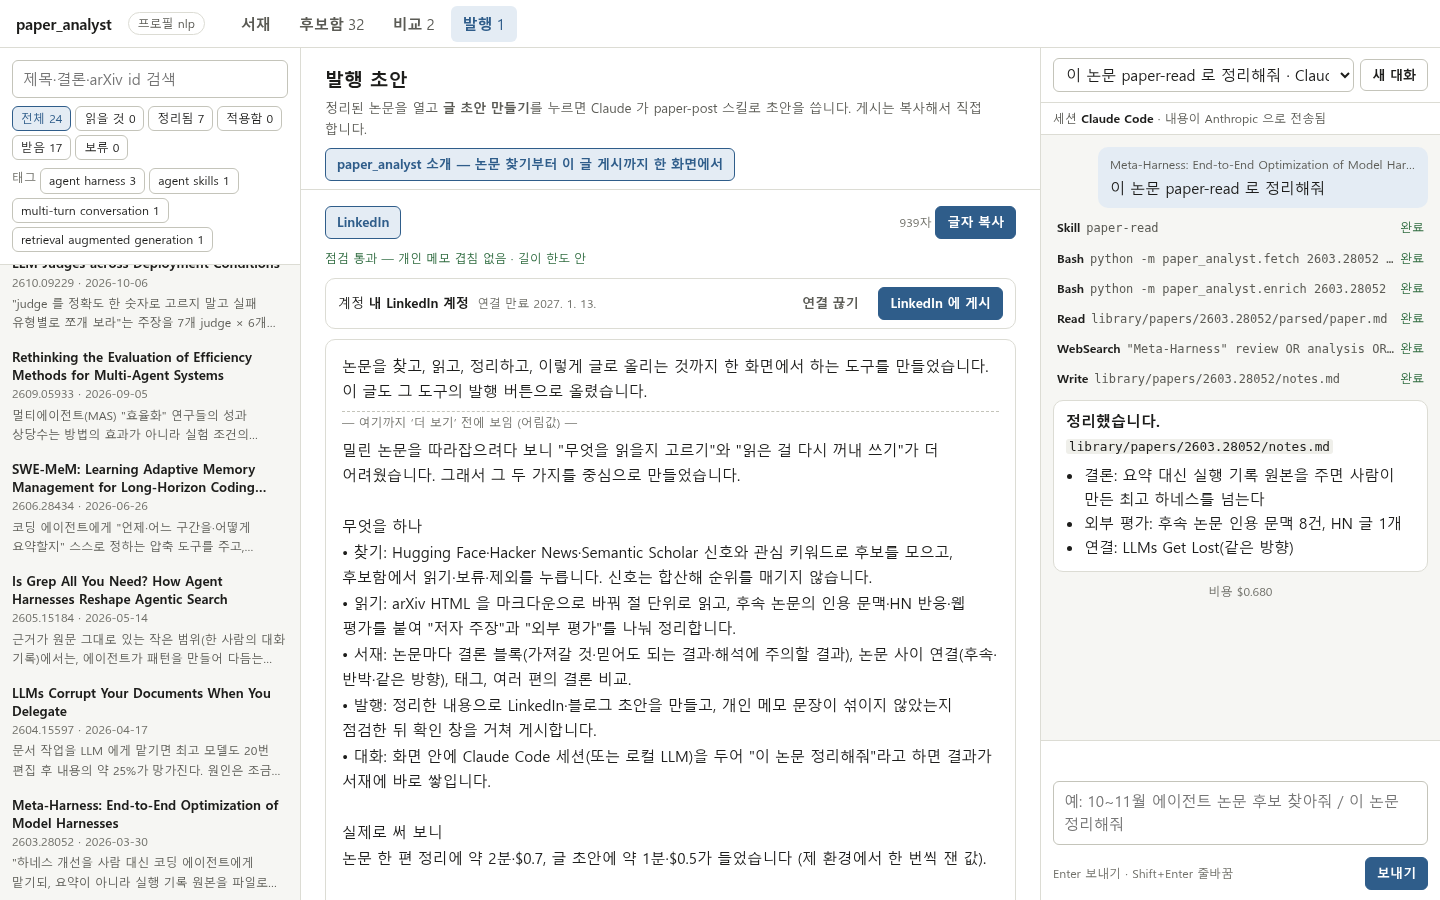
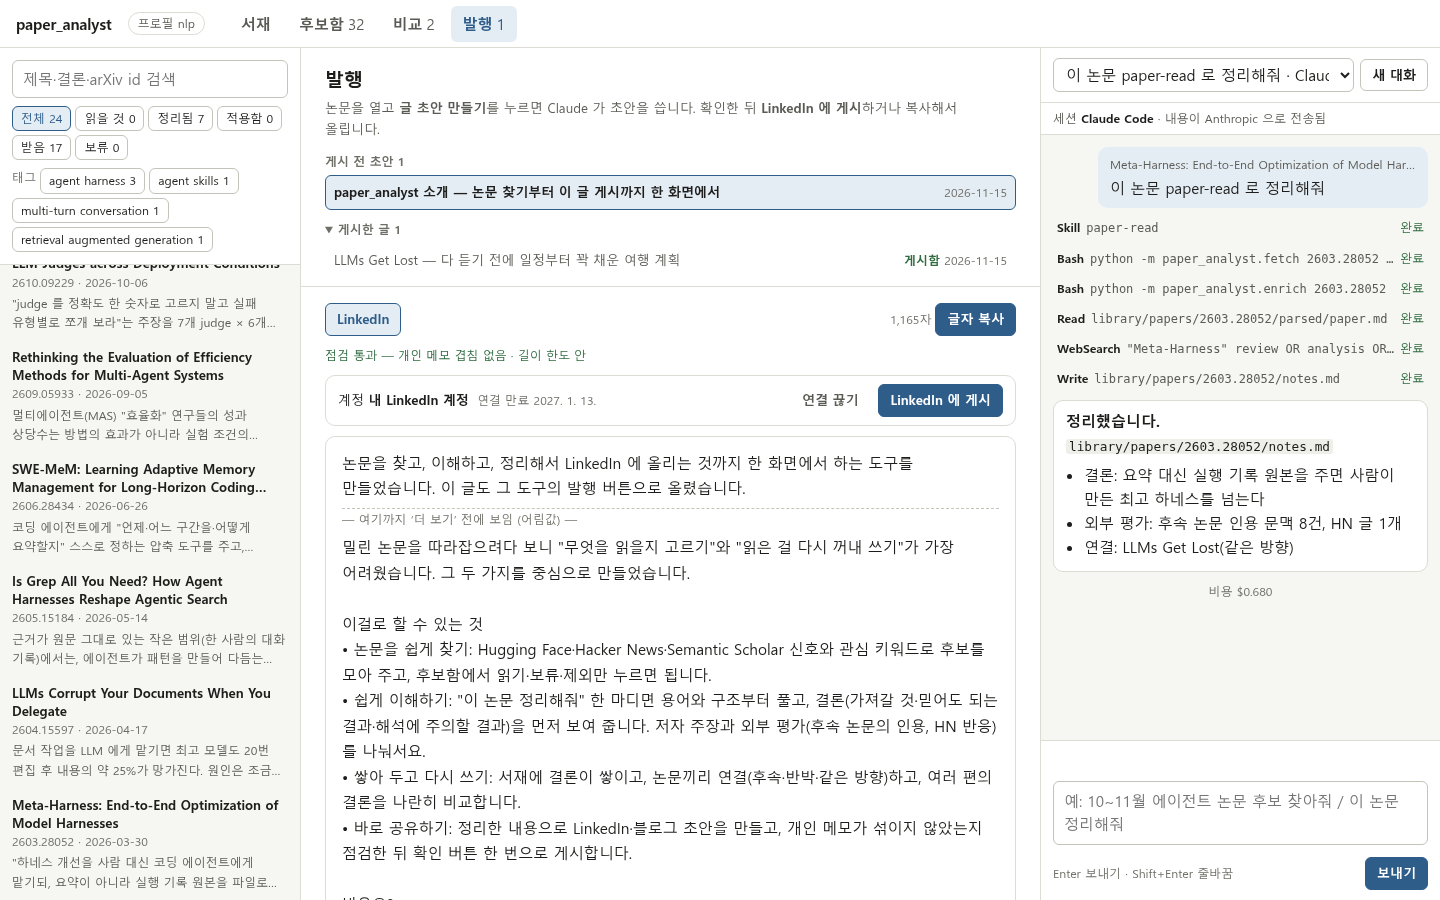
발행 탭: 게시 전 초안과 게시한 글을 나눠 보이기
- 목록 API 에 게시 시각(published) 추가
- 게시 전 초안이 위(탭 숫자도 이것만), 게시한 글은 접어 두고 게시 시각 순
- 고른 글이 게시한 글이면 늘 펼침, 직접 접은 상태는 기억
- 긴 제목은 말줄임 (390 폭 가로 스크롤 수정)
- 서재를 불러오기 전에 다른 탭을 누르면 나던 JS 오류 수정
- 브라우저 점검 +9 항목, README 캡처는 두 그룹이 보이게 (계정 이름 지움)

Changed region(s): [[0.2188, 0.0622, 0.7188, 0.9644], [0.25, 0.9956, 0.2812, 1.0]]

diff --git a/paper_analyst/static/index.html b/paper_analyst/static/index.html
@@ -131,7 +131,20 @@ button.tag.sug:hover { border-color: var(--accent); color: var(--accent); }
 
 /* 발행 */
 .pub-head { padding: 16px 24px 8px; border-bottom: 1px solid var(--line); }
-.pub-list { display: flex; flex-wrap: wrap; gap: 6px; margin-top: 8px; }
+.pub-groups { display: grid; grid-template-columns: minmax(0, 1fr); gap: 8px; margin-top: 10px; }
+.pub-group { min-width: 0; }
+.pub-group > .gh { font-size: var(--fs-cap); color: var(--text-3); font-weight: 700; margin: 0 0 2px; padding: 2px 0; }
+details.pub-group > summary.gh { cursor: pointer; list-style-position: inside; }
+.pub-rows { display: flex; flex-direction: column; gap: 2px; }
+.pub-row { display: flex; gap: 10px; align-items: baseline; width: 100%; text-align: left; border: 1px solid transparent; background: none;
+  border-radius: var(--radius); padding: 6px 8px; cursor: pointer; color: var(--text); font-size: var(--fs-label); min-height: 32px; min-width: 0; }
+.pub-row:hover { background: var(--panel-2); }
+.pub-row[aria-pressed="true"] { background: var(--accent-soft); border-color: var(--accent); }
+.pub-row .t { flex: 1; min-width: 0; overflow: hidden; text-overflow: ellipsis; white-space: nowrap; font-weight: 600; }
+.pub-row .m { font-size: var(--fs-cap); color: var(--text-3); white-space: nowrap; font-variant-numeric: tabular-nums; }
+.pub-row.is-done .t { font-weight: 500; color: var(--text-2); }
+.pub-row.is-done .m b { color: var(--ok); font-weight: 600; }
+.pub-none { font-size: var(--fs-label); color: var(--text-3); padding: 4px 8px; margin: 0; }
 .pub-body { padding: 16px 24px 48px; max-width: 860px; }
 .ptabs { display: flex; gap: 4px; align-items: center; margin-bottom: 10px; flex-wrap: wrap; }
 .ptabs .spacer { flex: 1; }
@@ -340,6 +353,7 @@ async function loadLib(markFresh = false) {
   }
 }
 function renderFilters() {
+  if (!S.lib) return;   // 서재를 불러오기 전에 다른 탭을 누른 경우 — 불러오면 다시 그린다
   const c = S.lib.counts, names = S.lib.status_names;
   const opts = [['all', '전체', S.lib.papers.length], ...ORDER.map(k => [k, names[k], c[k]])];
   $('#filters').innerHTML = opts.map(([k, n, v]) =>
@@ -357,6 +371,7 @@ function matches(p) {
   return (p.title + ' ' + p.id + ' ' + (p.conclusion || '')).toLowerCase().includes(S.q.toLowerCase());
 }
 function renderLib() {
+  if (!S.lib) return;   // 서재를 불러오기 전에 다른 탭을 누른 경우 — 불러오면 다시 그린다
   const names = S.lib.status_names, out = [];
   for (const st of ORDER) {
     if (S.filter !== 'all' && S.filter !== st) continue;
@@ -499,22 +514,42 @@ async function renderCompare() {
       </tbody></table></div>`;
 }
 /* ── 발행 ─────────────────────────────────── */
+// 게시 여부로 나눈다: 할 일(게시 전)이 위, 기록(게시함)은 접어 둔다. 탭 숫자는 게시 전 초안만.
+const isDone = x => Object.keys(x.published || {}).length > 0;
+const pubAt = x => Object.values(x.published || {}).sort().pop() || '';
+function splitPosts() {
+  const todo = S.posts.filter(x => !isDone(x)), done = S.posts.filter(isDone).sort((a, b) => pubAt(b).localeCompare(pubAt(a)));
+  return { todo, done };
+}
+function setPubCount() { $('#pub-n').textContent = S.posts.filter(x => !isDone(x)).length || ''; }
 async function loadPubCount() {
-  try { S.posts = await api('/api/posts'); $('#pub-n').textContent = S.posts.length || ''; } catch { /* 숫자만 못 보여 줌 */ }
+  try { S.posts = await api('/api/posts'); setPubCount(); } catch { /* 숫자만 못 보여 줌 */ }
 }
 async function loadPub() {
   try { S.posts = await api('/api/posts'); } catch (e) { $('#main').innerHTML = `<div class="empty"><h2>초안 목록을 불러오지 못했습니다</h2><p>${esc(e.message)}</p></div>`; return; }
-  $('#pub-n').textContent = S.posts.length || '';
+  setPubCount();
   if (S.post && !S.posts.some(x => x.slug === S.post)) S.post = null;
-  S.post = S.post || (S.posts[0] && S.posts[0].slug);
+  const { todo, done } = splitPosts();
+  S.post = S.post || ((todo[0] || done[0]) || {}).slug;
   S.postData = S.post ? await api(`/api/posts/${encodeURIComponent(S.post)}`).catch(() => null) : null;
   S.li = await api('/api/linkedin').catch(() => null);
   if (S.view === 'pub') renderPub();
 }
 function renderPub() {
-  const head = `<div class="pub-head"><h1 class="title" style="font-size:var(--fs-h2);margin:0">발행 초안</h1>
-    <p class="meta" style="margin:4px 0 0">정리된 논문을 열고 <b>글 초안 만들기</b>를 누르면 Claude 가 paper-post 스킬로 초안을 씁니다. 게시는 복사해서 직접 합니다.</p>
-    ${S.posts.length ? `<div class="pub-list">${S.posts.map(x => `<button class="btn" data-post="${esc(x.slug)}" aria-pressed="${x.slug === S.post}">${esc(x.title)}</button>`).join('')}</div>` : ''}</div>`;
+  const { todo, done } = splitPosts();
+  const row = x => `<button class="pub-row${isDone(x) ? ' is-done' : ''}" data-post="${esc(x.slug)}" aria-pressed="${x.slug === S.post}" title="${esc(x.title)}">
+      <span class="t">${esc(x.title)}</span>
+      <span class="m">${isDone(x) ? `<b>게시함</b> ${esc(pubAt(x).slice(0, 10))}` : esc(x.created || '')}</span></button>`;
+  const doneOpen = done.some(x => x.slug === S.post) || (S.pubDoneOpen ?? !todo.length);   // 고른 글이 안에 있으면 늘 펼침
+  const groups = S.posts.length ? `<div class="pub-groups">
+    <section class="pub-group"><h2 class="gh">게시 전 초안 ${todo.length}</h2>
+      ${todo.length ? `<div class="pub-rows">${todo.map(row).join('')}</div>` : '<p class="pub-none">게시할 초안이 없습니다. 모두 올렸습니다.</p>'}</section>
+    ${done.length ? `<details class="pub-group" id="pub-done"${doneOpen ? ' open' : ''}><summary class="gh">게시한 글 ${done.length}</summary>
+      <div class="pub-rows">${done.map(row).join('')}</div></details>` : ''}
+  </div>` : '';
+  const head = `<div class="pub-head"><h1 class="title" style="font-size:var(--fs-h2);margin:0">발행</h1>
+    <p class="meta" style="margin:4px 0 0">논문을 열고 <b>글 초안 만들기</b>를 누르면 Claude 가 초안을 씁니다. 확인한 뒤 <b>LinkedIn 에 게시</b>하거나 복사해서 올립니다.</p>
+    ${groups}</div>`;
   const d = S.postData;
   if (!d) { $('#main').innerHTML = head + `<div class="empty"><h2>아직 초안이 없습니다</h2><p>예: 서재에서 논문을 열고 <b>글 초안 만들기</b>, 또는 대화창에 <span class="ex">이 두 논문 엮어서 링크드인 글 써줘</span></p></div>`; return; }
   const kinds = [['linkedin', 'LinkedIn', d.linkedin], ['blog', '블로그 (마크다운)', d.blog], ['tistory', '티스토리 (HTML)', d.blog]].filter(k => k[2]);
@@ -770,6 +805,8 @@ function setView(v) {
 
 /* ── 이벤트 연결 ──────────────────────────── */
 document.addEventListener('click', async ev => {
+  const sum = ev.target.closest('#pub-done > summary');   // 사용자가 직접 접고 편 상태만 기억
+  if (sum) S.pubDoneOpen = !sum.parentElement.open;
   const t = ev.target.closest('button');
   if (!t || (!t.closest('.menu') && t.id !== 'new-chat')) $('.menu')?.remove();
   if (!t) return;

diff --git a/tools/browser_check.py b/tools/browser_check.py
@@ -42,6 +42,18 @@ _pd.mkdir(parents=True)
                                  "- 순서 바꿈 강건성은 양쪽 순서 모두 정답일 때만\n- 누락형 오류는 따로 잰다\n\n"
                                  "이 줄은 비공개 메모에서 옮겨 온 문장이라 경고가 떠야 합니다\n\n출처: https://arxiv.org/abs/2610.09229\n#LLM #평가")
 (_pd / "blog.md").write_text("# 판정기 고르기\n\n## 논문이 보인 것\n\n| 조건 | 결과 |\n|---|---|\n| 순서 | 강건성 0.87 |\n")
+# 게시 전 초안 하나 더 + 이미 게시한 글 하나 (발행 탭이 둘을 나눠 보이는지)
+for slug, meta, body in [
+    ("2026-11-14_older", {"title": "아주 긴 제목의 게시 전 초안 — 휴대폰 폭에서 말줄임으로 잘려야 하고 가로 스크롤이 생기면 안 됩니다", "created": "2026-11-14"},
+     "게시 전 두 번째 초안입니다.\n"),
+    ("2026-11-10_done", {"title": "이미 올린 글", "created": "2026-11-10",
+                         "published": {"linkedin": {"urn": "urn:li:share:9", "url": "https://www.linkedin.com/feed/update/urn:li:share:9/",
+                                                    "at": "2026-11-11 09:00:00 KST", "account": "테스트 계정"}}},
+     "이미 올린 글의 본문입니다.\n"),
+]:
+    (TMP / "posts" / slug).mkdir(parents=True)
+    (TMP / "posts" / slug / "meta.json").write_text(json.dumps(meta, ensure_ascii=False))
+    (TMP / "posts" / slug / "linkedin.md").write_text(body)
 (TMP / "library/papers/2603.28052/notes.private.md").write_text("# 개인\n- 이 줄은 비공개 메모에서 옮겨 온 문장이라 경고가 떠야 합니다 (원문)\n")
 N_NOTED = sum(1 for d in (TMP / "library" / "papers").iterdir() if (d / "notes.md").exists())
 N_ALL = sum(1 for d in (TMP / "library" / "papers").iterdir())
@@ -282,6 +294,23 @@ with sync_playwright() as p:
     page.click("#tab-pub")
     page.wait_for_selector(".pub-body")
     check("발행: 초안 목록 + LinkedIn 미리보기", "판정기는 한 숫자로" in page.inner_text(".pub-head") and page.is_visible(".preview-plain"))
+    todo_rows = page.locator(".pub-group:not(details) .pub-row"); done_rows = page.locator("#pub-done .pub-row")
+    check("발행: 게시 전 2 / 게시함 1 로 나뉨", todo_rows.count() == 2 and done_rows.count() == 1,
+          f"{todo_rows.count()} / {done_rows.count()}")
+    check("발행: 탭 숫자는 게시 전 초안만", page.inner_text("#pub-n") == "2", page.inner_text("#pub-n"))
+    check("발행: 게시함은 접힘, 처음 열리는 건 게시 전 초안",
+          not page.evaluate("document.querySelector('#pub-done').open") and
+          page.get_attribute(".pub-row[aria-pressed='true']", "data-post") == "2026-11-16_judge")
+    page.click("#pub-done > summary")
+    page.click(".pub-row[data-post='2026-11-10_done']")
+    page.wait_for_selector(".pubbar .done")
+    check("발행: 게시한 글 → 게시됨 표시, 게시 버튼 없음, 목록 펼친 채",
+          page.locator("#li-publish").count() == 0 and "LinkedIn 에서 보기" in page.inner_text(".pubbar")
+          and page.evaluate("document.querySelector('#pub-done').open"))
+    page.click("#pub-done > summary")
+    page.click(".pub-row[data-post='2026-11-16_judge']")
+    page.wait_for_function("document.querySelector(\".pub-row[aria-pressed='true']\").dataset.post === '2026-11-16_judge'")
+    check("발행: 직접 접은 상태는 다시 그려도 유지", not page.evaluate("document.querySelector('#pub-done').open"))
     check("발행: 개인 메모 겹침 경고", "개인 메모" in page.inner_text(".warn") and "1건" in page.inner_text(".warn"), page.inner_text(".warn")[:120] if page.locator(".warn").count() else "경고 없음")
     check("발행: '더 보기' 경계 표시", page.locator(".preview-plain .fold").count() == 1)
     check("발행: 기호 걷어낸 글자 (** 없음, • 목록)", "**" not in page.inner_text(".preview-plain") and "•" in page.inner_text(".preview-plain"))
@@ -322,6 +351,9 @@ with sync_playwright() as p:
     page.wait_for_selector(".pubbar .done")
     check("LinkedIn: 게시됨 + 링크, 한 번만", len(FAKE_LI.posts) == 1 and page.locator(".pubbar a[href*='feed/update']").count() == 1
           and FAKE_LI.posts[0][1].startswith("LLM 판정기를") and "\n\n• 순서" in FAKE_LI.posts[0][1])
+    check("게시 후: 게시함으로 옮겨지고 탭 숫자 줄어듦",
+          page.locator("#pub-done .pub-row[data-post='2026-11-16_judge']").count() == 1 and page.inner_text("#pub-n") == "1"
+          and page.evaluate("document.querySelector('#pub-done').open") is True)
     page.screenshot(path=str(TMP / "shot_1440_li_done.png"))
     page.click("button[data-paper='2603.28052']") if page.locator(".pub-body button[data-paper='2603.28052']").count() else None
     page.wait_for_selector("article h1")
@@ -390,6 +422,13 @@ with sync_playwright() as p:
             check("[390] 가로 스크롤 없음", page.evaluate("document.documentElement.scrollWidth <= innerWidth"))
         page.screenshot(path=str(TMP / f"shot_{w}.png"))
         basics(page, str(w))
+        page.click("#tab-pub")
+        page.wait_for_selector(".pub-body")
+        time.sleep(0.2)
+        page.screenshot(path=str(TMP / f"shot_{w}_pub.png"), full_page=True)
+        check(f"[{w}] 발행 탭 가로 스크롤 없음", page.evaluate("document.documentElement.scrollWidth <= innerWidth"))
+        page.click("#tab-lib")
+        time.sleep(0.2)
         if w <= 768:
             page.click("#chat-toggle")
             time.sleep(0.35)
@@ -404,6 +443,10 @@ with sync_playwright() as p:
     dark.click(f"button[data-paper='{TARGET}']")
     dark.wait_for_selector("article .concl")
     dark.screenshot(path=str(TMP / "shot_1440_dark.png"))
+    dark.click("#tab-pub")
+    dark.wait_for_selector(".pub-body")
+    dark.click("#pub-done > summary")
+    dark.screenshot(path=str(TMP / "shot_1440_pub_dark.png"))
     check("JS 오류 없음", not errors, "; ".join(errors[:5]))
     unexpected = [e for e in expected_4xx if "/abstract" not in e]
     check("4xx/5xx 응답 없음", not unexpected, "; ".join(unexpected[:5]))

diff --git a/tools/screenshots.py b/tools/screenshots.py
@@ -35,9 +35,20 @@ for sub in ("lists", "ideas", "library/candidates", "posts"):
     if src.exists():
         shutil.copytree(src, TMP / sub, ignore=shutil.ignore_patterns("*.private.md"), dirs_exist_ok=True)
 assert not list(TMP.rglob("*.private.md")), "개인 메모가 복사됨"
-for p in (TMP / "posts").glob("*"):          # 캡처할 초안 하나만 남긴다
-    if p.name != "2026-11-15_paper-analyst-intro":
+# 캡처할 글 둘만 남긴다: 소개 글은 '게시 전'으로, LLMs Get Lost 는 '게시한 글'로 (계정 이름은 지운다)
+KEEP = {"2026-11-15_paper-analyst-intro": "todo", "2026-11-15_llms-get-lost": "done"}
+for p in (TMP / "posts").glob("*"):
+    if p.name not in KEEP:
         shutil.rmtree(p)
+        continue
+    m = json.loads((p / "meta.json").read_text(encoding="utf-8"))
+    m.pop("project_root", None)
+    if KEEP[p.name] == "todo":
+        m.pop("published", None)
+    else:
+        for v in (m.get("published") or {}).values():
+            v["account"] = "내 계정"
+    (p / "meta.json").write_text(json.dumps(m, ensure_ascii=False), encoding="utf-8")
 
 
 class Proc:
@@ -152,6 +163,8 @@ with sync_playwright() as p:
     page.screenshot(path=str(OUT / "candidates.png"))
     page.click("#tab-pub")
     page.wait_for_selector(".preview-plain")
+    page.click("#pub-done > summary")
+    time.sleep(0.2)
     page.screenshot(path=str(OUT / "publish.png"))
     b.close()
 for f in sorted(OUT.glob("*.png")):

diff --git a/paper_analyst/post.py b/paper_analyst/post.py
@@ -45,6 +45,7 @@ def list_posts(root: Path) -> list[dict]:
         meta = _meta(p)
         out.append({"slug": p.name, "title": meta.get("title") or p.name, "sources": meta.get("sources", []),
                     "created": meta.get("created", ""), "has": [f for f in ("linkedin.md", "blog.md") if (p / f).exists()],
+                    "published": {k: (v or {}).get("at", "") for k, v in (meta.get("published") or {}).items()},
                     "mtime": max((f.stat().st_mtime for f in p.iterdir()), default=0)})
     return out
 
